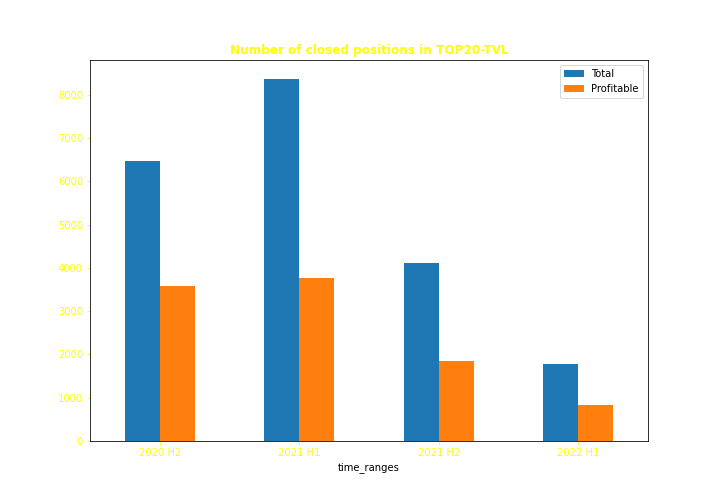
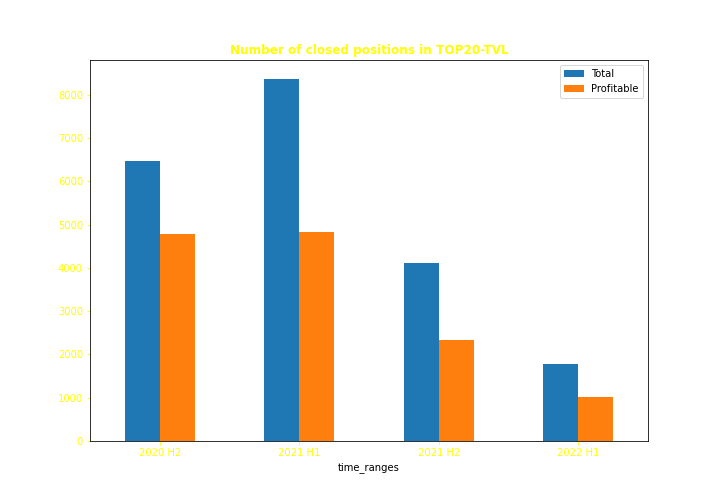
Render plot including rewards

diff --git a/sushiswap/data_analyzer.py b/sushiswap/data_analyzer.py
@@ -129,7 +129,7 @@ def get_h_for_block(block):
         return '2022 H1'
 
 df['time_ranges'] = df['position_end_block'].apply(lambda x: get_h_for_block(x)).sort_values()
-df['is_profitable'] = df['pool_vs_hodl_roi'].apply(lambda x: 1 if x > 0 else 0)
+df['is_profitable'] = df['total_roi_vs_hodl'].apply(lambda x: 1 if x > 0 else 0)
 
 agg_stats = df.groupby('time_ranges')['is_profitable'].agg(Total='count', Profitable='sum')
 ax = agg_stats.plot(
